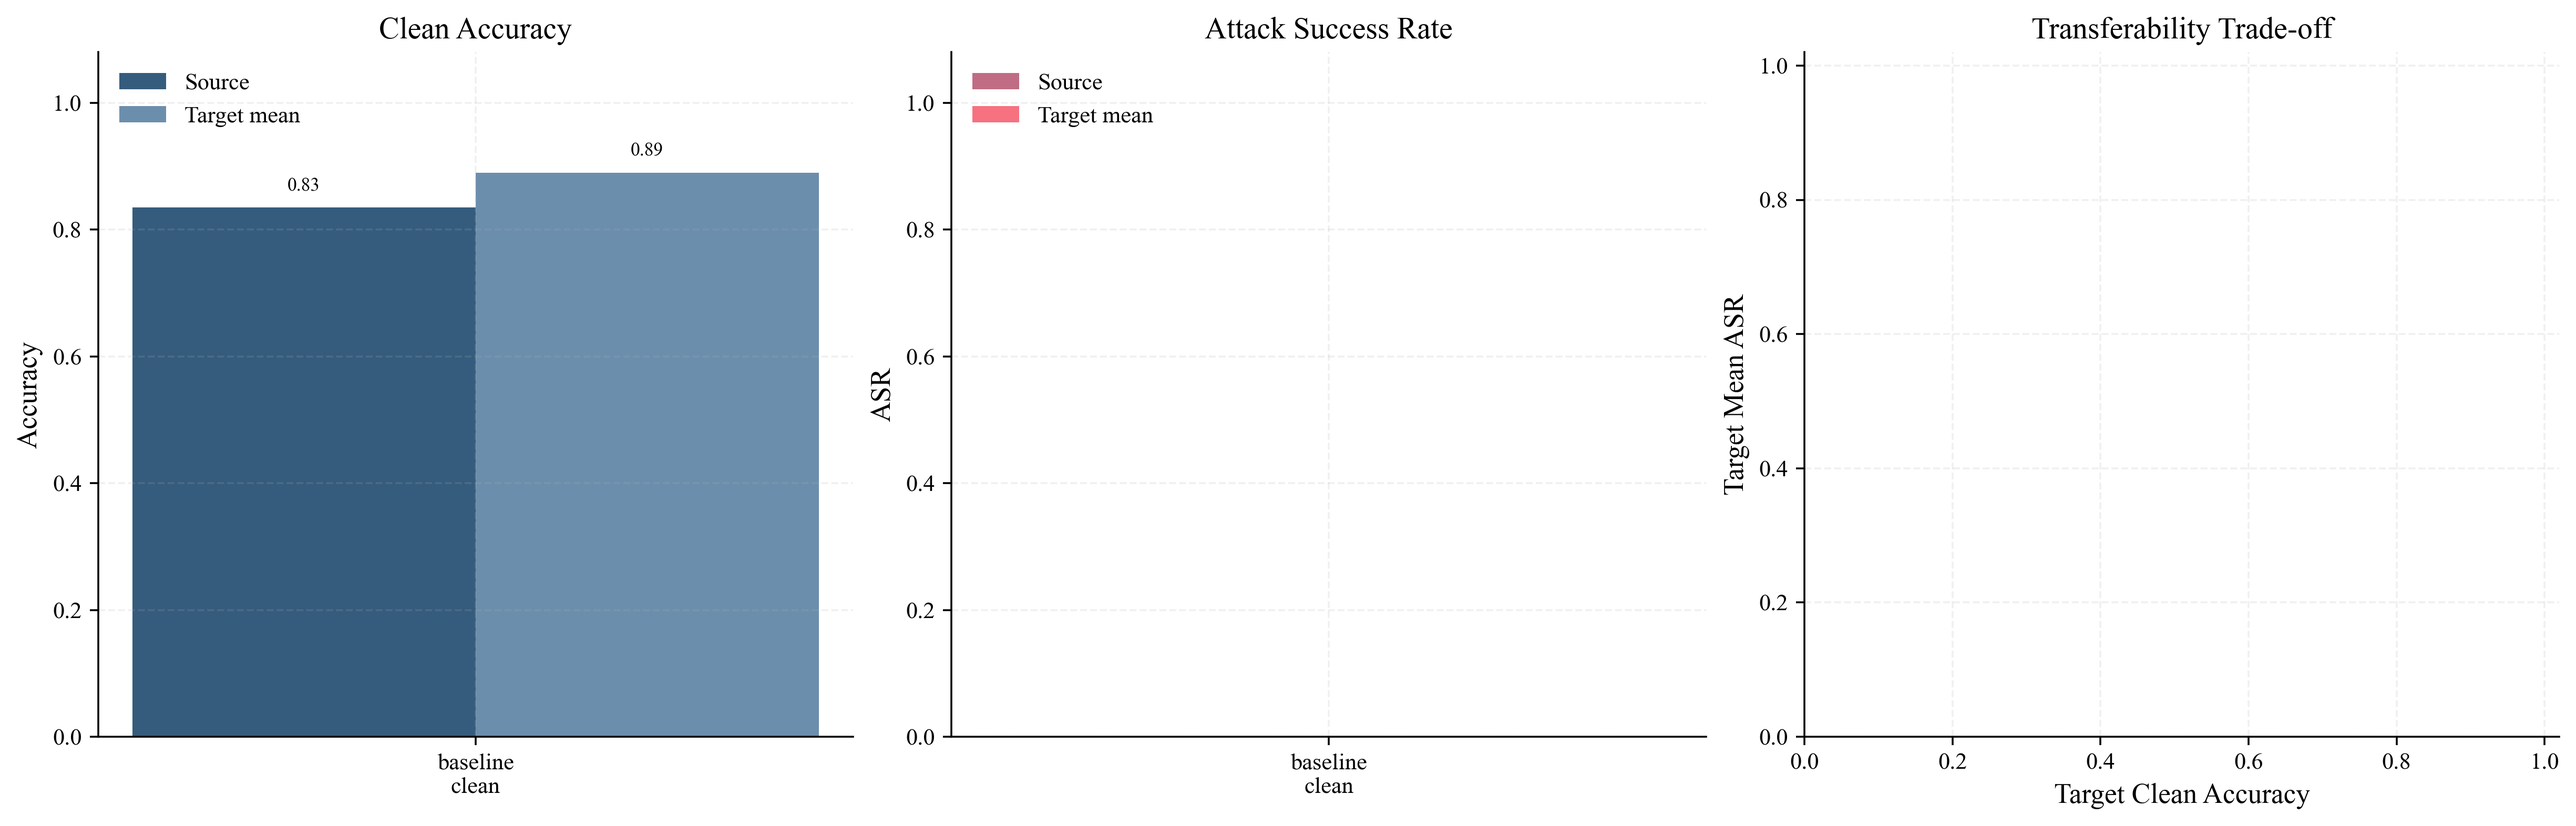
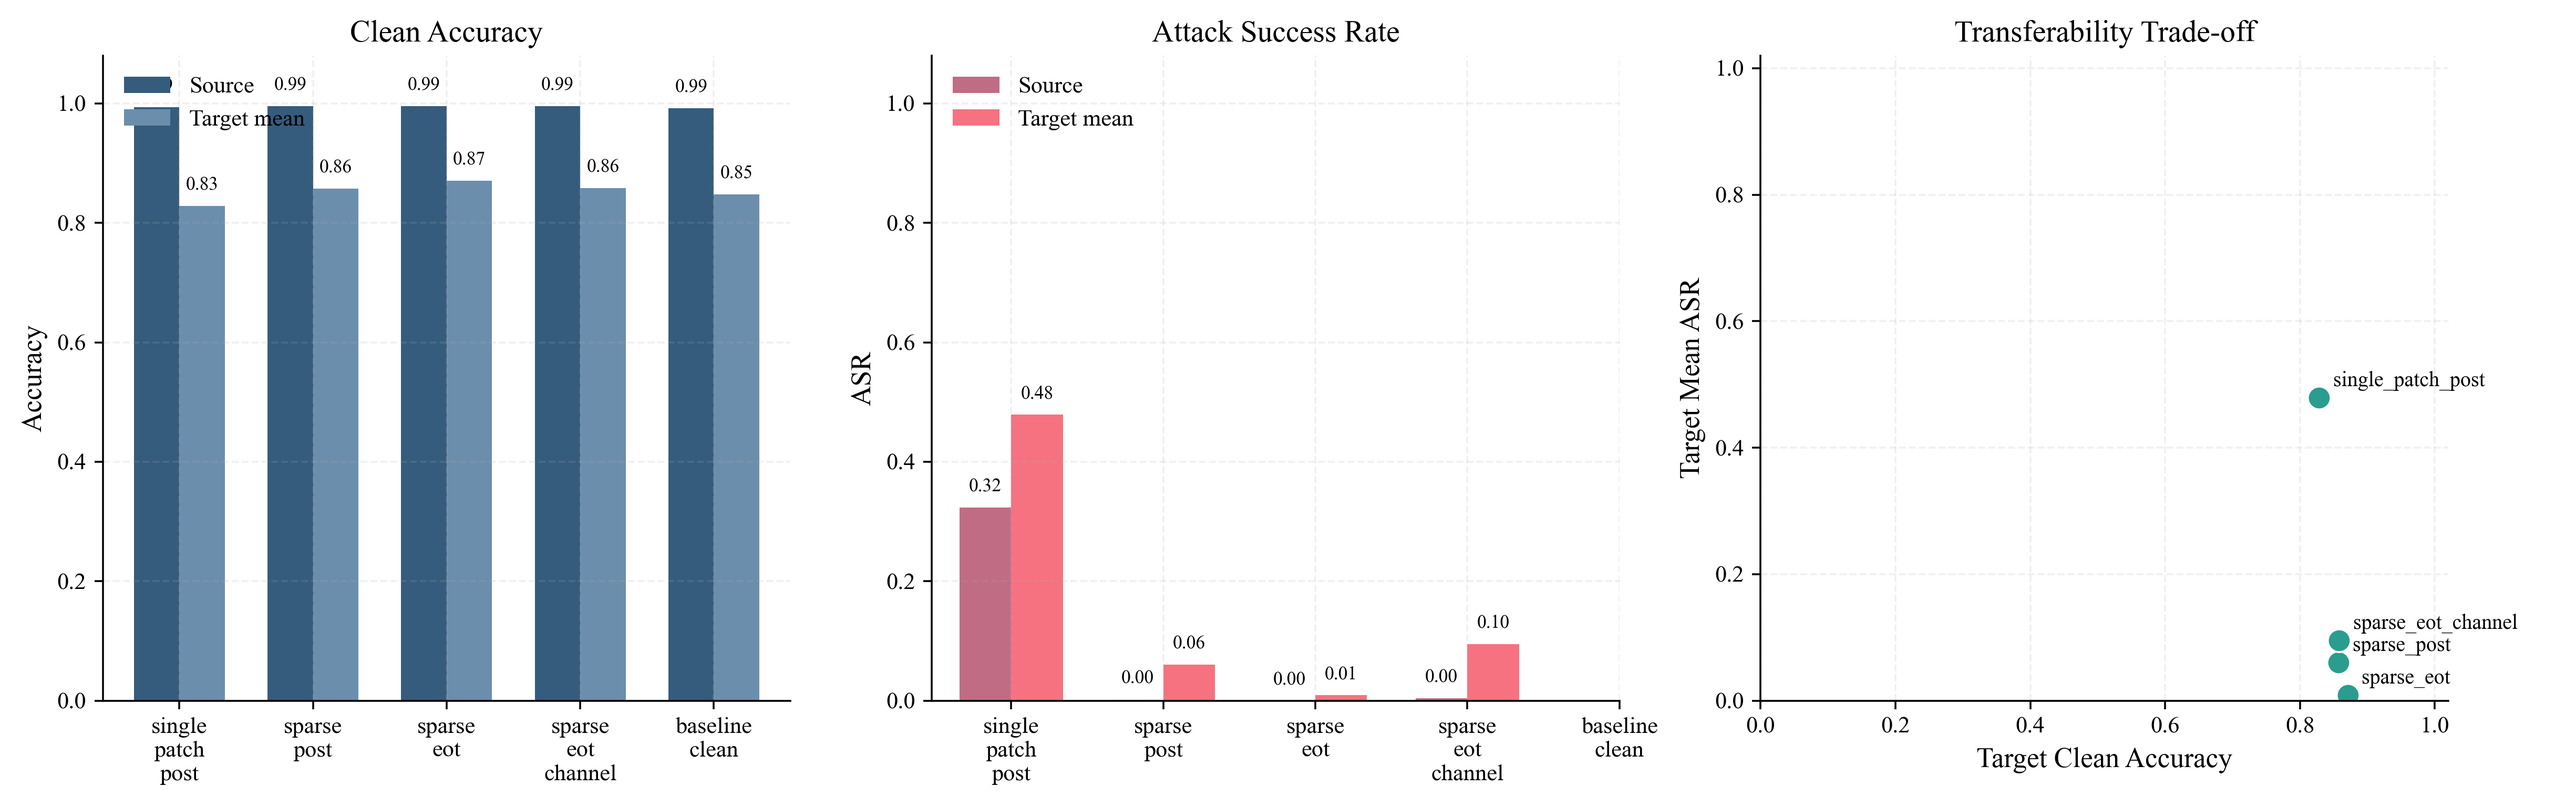
feat: 一些实验结果

diff --git a/plot_results.py b/plot_results.py
@@ -14,6 +14,8 @@ COLORS = {
     "clean_target": "#6C8EAD",
     "asr_source": "#C06C84",
     "asr_target": "#F67280",
+    "gap": "#2A9D8F",
+    "trajectory": "#264653",
 }
 
 
@@ -50,7 +52,14 @@ def latest_rows(rows):
 
 def load_rows(csv_path, dataset_name="", keep_all=False):
     with open(csv_path, "r", encoding="utf-8", newline="") as f:
-        rows = list(csv.DictReader(f))
+        rows = []
+        for row in csv.DictReader(f):
+            clean_row = {}
+            for key, value in row.items():
+                if key is None:
+                    continue
+                clean_row[key] = value
+            rows.append(clean_row)
 
     if dataset_name:
         rows = [row for row in rows if row.get("dataset_name", "") == dataset_name]
@@ -65,6 +74,8 @@ def collect_target_indices(rows):
     indices = set()
     for row in rows:
         for key in row.keys():
+            if key is None:
+                continue
             if key.startswith("clean_target_acc_"):
                 indices.add(int(key.rsplit("_", 1)[1]))
     return sorted(indices)
@@ -73,6 +84,17 @@ def collect_target_indices(rows):
 def shorten_name(name):
     parts = name.split("_")
     return "\n".join(parts)
+
+
+def display_name(name):
+    return name.replace("_", " ").title()
+
+
+def infer_stage_rank(name):
+    ordered = ["single_patch_post", "sparse_post", "sparse_eot", "sparse_eot_channel"]
+    if name in ordered:
+        return ordered.index(name)
+    return len(ordered)
 
 
 def prepare_metrics(rows):
@@ -94,11 +116,13 @@ def prepare_metrics(rows):
                 "source_asr": to_float(row.get("source_asr", "")),
                 "clean_target_mean": float(np.mean(clean_targets)) if clean_targets else math.nan,
                 "target_asr_mean": float(np.mean(asr_targets)) if asr_targets else math.nan,
+                "asr_gap": to_float(row.get("source_asr", "")) - (float(np.mean(asr_targets)) if asr_targets else math.nan),
                 "clean_targets": clean_target_series,
                 "asr_targets": asr_target_series,
             }
         )
 
+    metrics.sort(key=lambda item: infer_stage_rank(item["exp_name"]))
     return metrics, target_indices
 
 
@@ -125,6 +149,7 @@ def configure_style():
             "axes.grid": True,
             "grid.alpha": 0.18,
             "grid.linestyle": "--",
+            "savefig.bbox": "standard",
         }
     )
 
@@ -229,11 +254,149 @@ def plot_per_target(metrics, target_indices, outdir):
     save_figure(fig, outdir, "per_target")
 
 
+def plot_asr_gap(metrics, outdir):
+    valid = [item for item in metrics if not math.isnan(item["asr_gap"]) and not math.isnan(item["target_asr_mean"])]
+    if not valid:
+        return
+
+    labels = [item["label"] for item in valid]
+    x = np.arange(len(valid))
+    gaps = np.array([item["asr_gap"] for item in valid], dtype=float)
+
+    fig, ax = plt.subplots(figsize=(8.6, 4.8), constrained_layout=True)
+    bars = ax.bar(x, gaps, color=COLORS["gap"], width=0.58)
+    ax.axhline(0.0, color="#666666", linewidth=1.0)
+    ax.set_title("Cross-Domain Transfer Loss")
+    ax.set_ylabel(r"ASR Gap: Source - Target Mean")
+    ax.set_ylim(min(-0.05, np.nanmin(gaps) - 0.05), max(1.02, np.nanmax(gaps) + 0.08))
+    ax.set_xticks(x, labels)
+    annotate_bars(ax, bars)
+    save_figure(fig, outdir, "asr_gap")
+
+
+def plot_transfer_trajectory(metrics, outdir):
+    valid = [item for item in metrics if not math.isnan(item["asr_gap"]) and not math.isnan(item["target_asr_mean"])]
+    if not valid:
+        return
+
+    fig, ax = plt.subplots(figsize=(7.4, 6.0), constrained_layout=True)
+    xs = [item["asr_gap"] for item in valid]
+    ys = [item["target_asr_mean"] for item in valid]
+    names = [item["exp_name"] for item in valid]
+    cmap = plt.cm.viridis(np.linspace(0.15, 0.88, len(valid)))
+
+    for idx, (x_val, y_val, name) in enumerate(zip(xs, ys, names)):
+        ax.scatter(x_val, y_val, s=135, color=cmap[idx], edgecolors="white", linewidths=1.0, zorder=3)
+        ax.annotate(display_name(name), (x_val, y_val), textcoords="offset points", xytext=(6, 7), fontsize=9)
+        if idx > 0:
+            prev_x, prev_y = xs[idx - 1], ys[idx - 1]
+            ax.annotate(
+                "",
+                xy=(x_val, y_val),
+                xytext=(prev_x, prev_y),
+                arrowprops={"arrowstyle": "->", "lw": 1.6, "color": COLORS["trajectory"], "alpha": 0.65},
+            )
+
+    ax.set_title("Backdoor Transfer Trajectory")
+    ax.set_xlabel(r"ASR Gap: Source - Target Mean (lower is better)")
+    ax.set_ylabel("Target Mean ASR (higher is better)")
+    ax.set_xlim(min(-0.02, min(xs) - 0.05), max(xs) + 0.08)
+    ax.set_ylim(min(-0.02, min(ys) - 0.05), 1.02)
+    ax.text(
+        0.98,
+        0.04,
+        "Preferred region",
+        transform=ax.transAxes,
+        ha="right",
+        va="bottom",
+        fontsize=10,
+        color=COLORS["trajectory"],
+    )
+    ax.annotate(
+        "",
+        xy=(0.08, 0.92),
+        xytext=(0.3, 0.72),
+        textcoords="axes fraction",
+        xycoords="axes fraction",
+        arrowprops={"arrowstyle": "->", "lw": 1.3, "linestyle": "--", "color": COLORS["trajectory"]},
+    )
+    save_figure(fig, outdir, "transfer_trajectory")
+
+
+def _make_base_signal(length=256):
+    t = np.linspace(0.0, 1.0, length, endpoint=False, dtype=np.float32)
+    i_comp = 0.85 * np.sin(2 * np.pi * 7 * t) + 0.18 * np.sin(2 * np.pi * 17 * t)
+    q_comp = 0.8 * np.cos(2 * np.pi * 7 * t + 0.25) + 0.16 * np.cos(2 * np.pi * 15 * t)
+    return np.stack([i_comp, q_comp], axis=0).astype(np.float32)
+
+
+def _inject_segment(x, start, seg_len, amp=0.16, freq=6.0):
+    t = np.arange(seg_len, dtype=np.float32)
+    phase = 2 * np.pi * freq * t / max(seg_len, 1)
+    x[0, start:start + seg_len] += amp * np.sin(phase)
+    x[1, start:start + seg_len] += amp * np.cos(phase)
+    return x
+
+
+def build_schematic_signals(length=256):
+    clean = _make_base_signal(length)
+
+    single_patch = clean.copy()
+    single_patch = _inject_segment(single_patch, int(length * 0.72), int(length * 0.18), amp=0.18, freq=7.0)
+
+    sparse = clean.copy()
+    sparse = _inject_segment(sparse, int(length * 0.08), int(length * 0.1), amp=0.16, freq=7.0)
+    sparse = _inject_segment(sparse, int(length * 0.44), int(length * 0.1), amp=0.16, freq=7.0)
+    sparse = _inject_segment(sparse, int(length * 0.78), int(length * 0.1), amp=0.16, freq=7.0)
+
+    channel = sparse.copy()
+    theta = np.deg2rad(12.0)
+    i_comp = channel[0].copy()
+    q_comp = channel[1].copy()
+    channel[0] = 1.05 * (np.cos(theta) * i_comp - np.sin(theta) * q_comp)
+    channel[1] = 1.05 * (np.sin(theta) * i_comp + np.cos(theta) * q_comp)
+    channel = np.roll(channel, shift=4, axis=1)
+
+    return [
+        ("Clean Signal", clean),
+        ("Single-Patch Trigger", single_patch),
+        ("Sparse Trigger", sparse),
+        ("Sparse + Channel", channel),
+    ]
+
+
+def plot_trigger_schematic(outdir):
+    schematics = build_schematic_signals()
+    fig, axes = plt.subplots(len(schematics), 1, figsize=(12.0, 8.2), sharex=True, constrained_layout=True)
+    time_axis = np.arange(schematics[0][1].shape[1])
+
+    for ax, (title, signal) in zip(axes, schematics):
+        ax.plot(time_axis, signal[0], color="#1D4E89", linewidth=1.8, label="I channel")
+        ax.plot(time_axis, signal[1], color="#D1495B", linewidth=1.5, label="Q channel")
+        ax.set_title(title, loc="left")
+        ax.set_ylabel("Amplitude")
+        ax.set_xlim(0, len(time_axis) - 1)
+        ax.axhline(0.0, color="#999999", linewidth=0.8, alpha=0.7)
+
+    axes[0].legend(frameon=False, loc="upper right", ncol=2)
+    axes[-1].set_xlabel("Sample Index")
+    save_figure(fig, outdir, "trigger_schematic")
+
+
 def save_figure(fig, outdir, stem):
     png_path = os.path.join(outdir, f"{stem}.png")
     pdf_path = os.path.join(outdir, f"{stem}.pdf")
-    fig.savefig(png_path, dpi=320, bbox_inches="tight", facecolor="white")
-    fig.savefig(pdf_path, bbox_inches="tight", facecolor="white")
+
+    if hasattr(fig, "get_layout_engine") and fig.get_layout_engine() is not None:
+        fig.set_layout_engine(None)
+
+    try:
+        fig.tight_layout(pad=0.8)
+    except Exception:
+        pass
+
+    fig.savefig(png_path, dpi=320, facecolor="white")
+    fig.savefig(pdf_path, facecolor="white")
     plt.close(fig)
 
 
@@ -249,6 +412,9 @@ def main():
     metrics, target_indices = prepare_metrics(rows)
     plot_overview(metrics, args.outdir)
     plot_per_target(metrics, target_indices, args.outdir)
+    plot_asr_gap(metrics, args.outdir)
+    plot_transfer_trajectory(metrics, args.outdir)
+    plot_trigger_schematic(args.outdir)
 
     print(f"Saved figures to {args.outdir}")
 

diff --git a/run.py b/run.py
@@ -51,53 +51,53 @@ BACKDOOR_ARGS = {
 
 # 要跑的实验列表
 EXPERIMENTS = [
-    {
-        "exp_name": "baseline_clean",
-        "backdoor": False
-    },
-    {
-        "exp_name": "single_patch_post",
-        "backdoor": True,
-        "trigger_stage": "post",
-        "backdoor_overrides": {
-            "trigger_type": "sine",
-            "trigger_len": 96,
-            "trigger_pos": "tail",
-            "trigger_segments": 1,
-            "trigger_anchor_positions": "tail",
-            "trigger_jitter": 0,
-            "trigger_adaptive_amp": False,
-            "poison_channel_aug": False,
-        }
-    },
-    {
-        "exp_name": "sparse_post",
-        "backdoor": True,
-        "trigger_stage": "post",
-        "backdoor_overrides": {
-            "trigger_type": "sparse_sine",
-            "trigger_len": 96,
-            "trigger_segments": 3,
-            "trigger_anchor_positions": "head,middle,tail",
-            "trigger_jitter": 16,
-            "trigger_adaptive_amp": True,
-            "poison_channel_aug": False,
-        }
-    },
-    {
-        "exp_name": "sparse_eot",
-        "backdoor": True,
-        "trigger_stage": "eot",
-        "backdoor_overrides": {
-            "trigger_type": "sparse_sine",
-            "trigger_len": 96,
-            "trigger_segments": 3,
-            "trigger_anchor_positions": "head,middle,tail",
-            "trigger_jitter": 16,
-            "trigger_adaptive_amp": True,
-            "poison_channel_aug": False,
-        }
-    },
+    # {
+    #     "exp_name": "baseline_clean",
+    #     "backdoor": False
+    # },
+    # {
+    #     "exp_name": "single_patch_post",
+    #     "backdoor": True,
+    #     "trigger_stage": "post",
+    #     "backdoor_overrides": {
+    #         "trigger_type": "sine",
+    #         "trigger_len": 96,
+    #         "trigger_pos": "tail",
+    #         "trigger_segments": 1,
+    #         "trigger_anchor_positions": "tail",
+    #         "trigger_jitter": 0,
+    #         "trigger_adaptive_amp": False,
+    #         "poison_channel_aug": False,
+    #     }
+    # },
+    # {
+    #     "exp_name": "sparse_post",
+    #     "backdoor": True,
+    #     "trigger_stage": "post",
+    #     "backdoor_overrides": {
+    #         "trigger_type": "sparse_sine",
+    #         "trigger_len": 96,
+    #         "trigger_segments": 3,
+    #         "trigger_anchor_positions": "head,middle,tail",
+    #         "trigger_jitter": 16,
+    #         "trigger_adaptive_amp": True,
+    #         "poison_channel_aug": False,
+    #     }
+    # },
+    # {
+    #     "exp_name": "sparse_eot",
+    #     "backdoor": True,
+    #     "trigger_stage": "eot",
+    #     "backdoor_overrides": {
+    #         "trigger_type": "sparse_sine",
+    #         "trigger_len": 96,
+    #         "trigger_segments": 3,
+    #         "trigger_anchor_positions": "head,middle,tail",
+    #         "trigger_jitter": 16,
+    #         "trigger_adaptive_amp": True,
+    #         "poison_channel_aug": False,
+    #     }
+    # },
     {
         "exp_name": "sparse_eot_channel",
         "backdoor": True,
